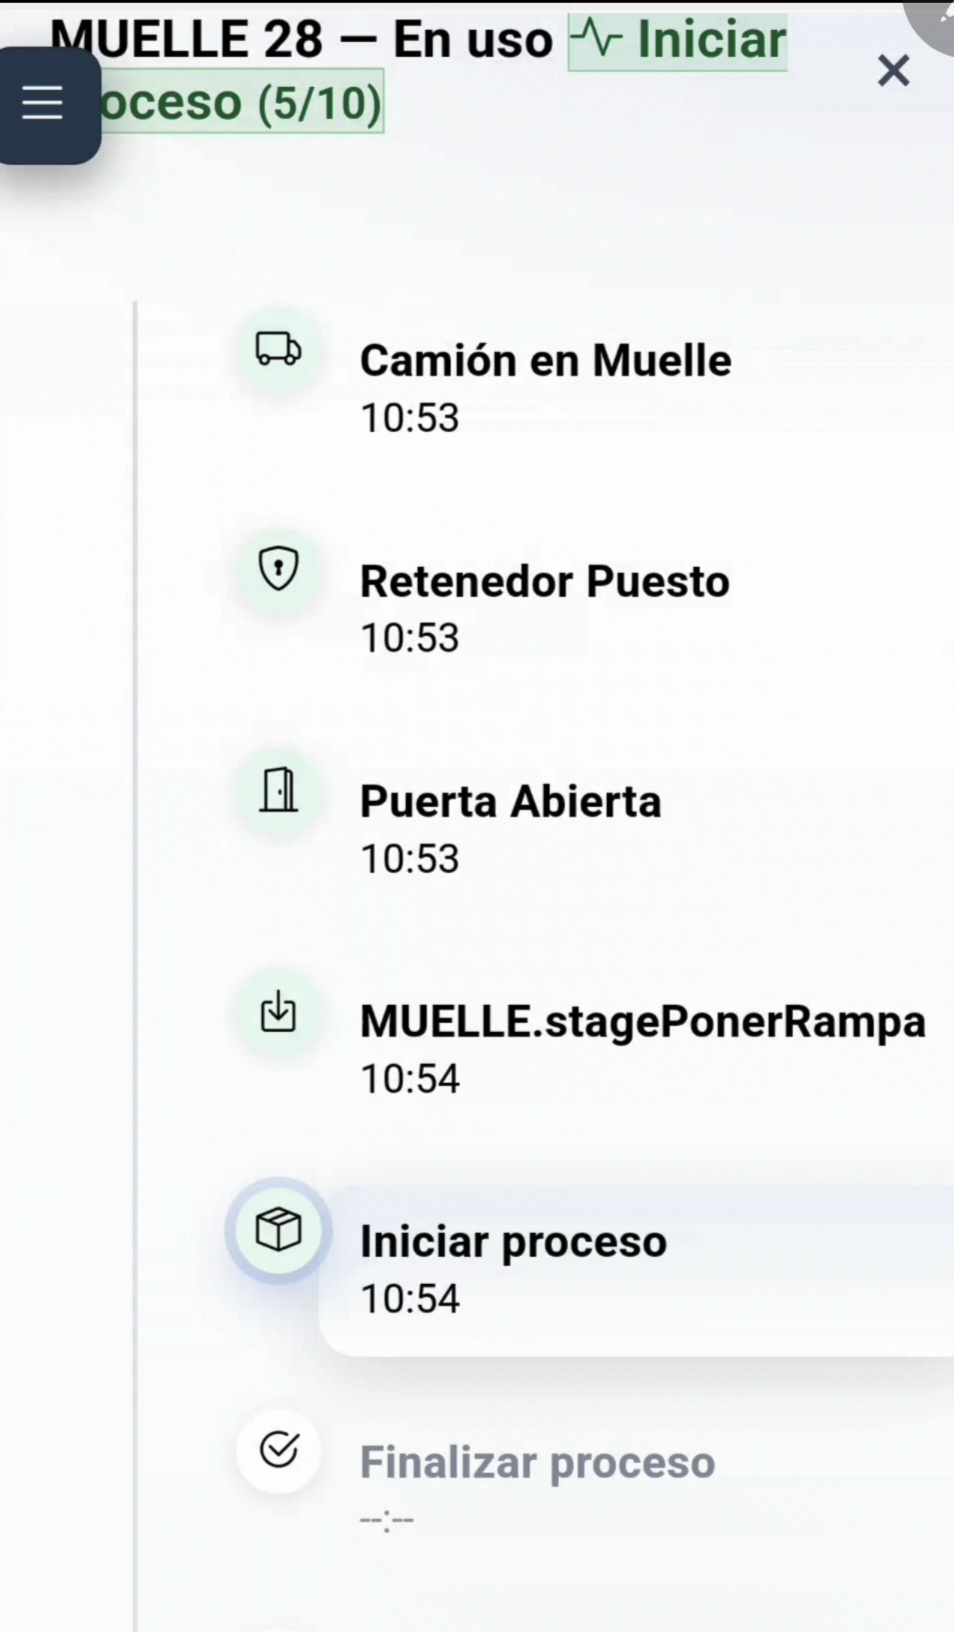
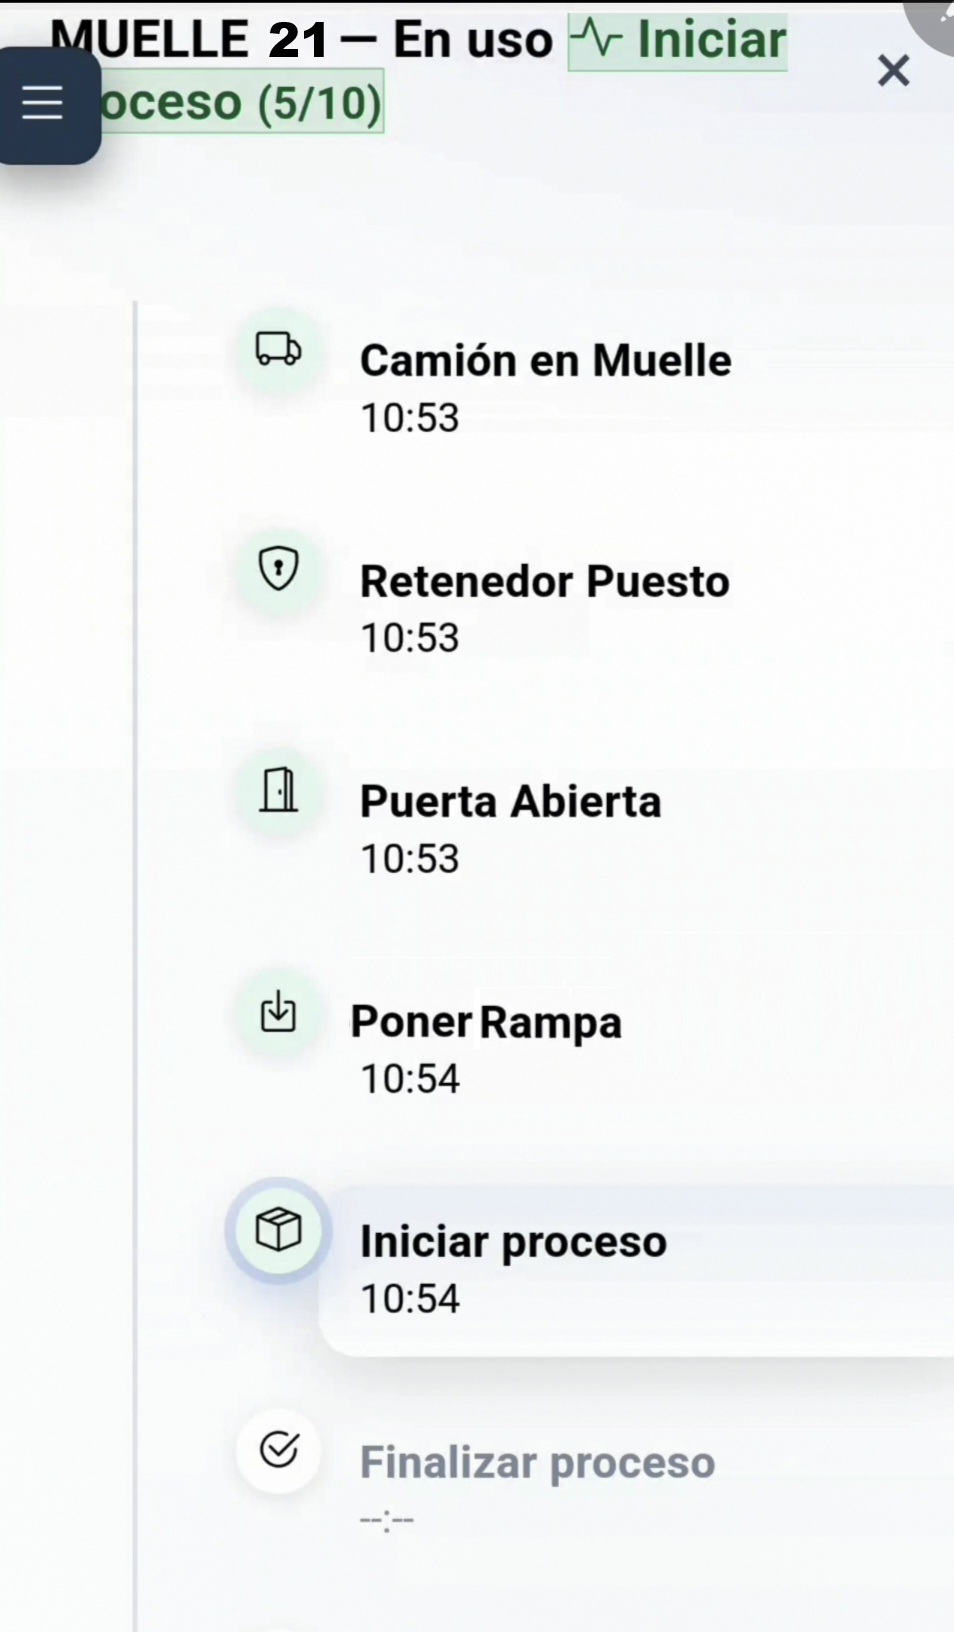
Refine project labels and mobile KPI interactions

Changed region(s): [[0.3648, 0.5938, 0.9727, 0.6562], [0.2736, 0.0, 0.3344, 0.0625]]

diff --git a/assets/css/main.css b/assets/css/main.css
@@ -980,20 +980,24 @@ h3 { margin: 0 0 0.95rem; font-size: clamp(1.45rem, 3vw, 2rem); }
 .kpi-hotspot-image img {
     position: absolute;
     inset: 0;
+    z-index: 1;
     width: 100%;
     height: 100%;
     display: block;
     max-height: none;
     object-fit: cover;
+    pointer-events: none;
 }
 
 .kpi-zone {
     position: absolute;
+    z-index: 2;
     left: 0;
     right: 0;
     border: 0;
     background: transparent;
     cursor: pointer;
+    touch-action: manipulation;
 }
 
 .kpi-zone::after {

diff --git a/data/profile.php b/data/profile.php
@@ -90,12 +90,12 @@ return [
             'tags' => ['.NET', 'C#', 'Angular', 'SQL Server', 'APIs'],
             'projects' => [
                 [
-                    'es' => 'Sistema de registro de tiempos operativos en muelles con eventos de camión, puerta y calzo en tiempo real.',
+                    'es' => 'Sistema de registro de tiempos operativos en muelles con eventos de camión, puerta y retenedor en tiempo real.',
                     'en' => 'Built a dock-time tracking system with real-time truck, door, and wheel chock events.',
                     'url' => 'proyecto-logistica/?lang=%lang%',
                     'url_label' => [
-                        'es' => 'Ver proyecto+',
-                        'en' => 'View project+',
+                        'es' => 'Proyecto Logística',
+                        'en' => 'Logistics Project',
                     ],
                 ],
                 [
@@ -222,6 +222,26 @@ return [
                 'en' => 'E-commerce platform with integrations, order workflows, and conversion-oriented UX.',
             ],
             'url' => 'https://sticnow.com',
+        ],
+        [
+            'name' => 'Proyecto Logístico MEIBIT',
+            'type' => ['es' => 'Proyecto para MEIBIT', 'en' => 'Project for MEIBIT'],
+            'logo' => 'MB',
+            'description' => [
+                'es' => 'Solución de control de tiempos en muelles con timeline operativo, zona KPI interactiva y trazabilidad de sesiones.',
+                'en' => 'Dock-time control solution with operational timeline, interactive KPI area, and session traceability.',
+            ],
+            'url' => '/proyecto-logistica/index.php?lang=%lang%',
+        ],
+        [
+            'name' => 'Content Generator Pro',
+            'type' => ['es' => 'Proyecto para DobleSEO', 'en' => 'Project for DobleSEO'],
+            'logo' => 'DS',
+            'description' => [
+                'es' => 'Plugin premium para WordPress orientado a automatización de contenido con IA e integración en flujos editoriales SEO.',
+                'en' => 'Premium WordPress plugin focused on AI content automation and SEO editorial workflow integration.',
+            ],
+            'url' => 'https://contentgeneratorpro.com/',
         ],
     ],
     'services' => [

diff --git a/components/projects.php b/components/projects.php
@@ -4,12 +4,13 @@
         <h3><?= htmlspecialchars($t['projects_title']) ?></h3>
         <div class="cards three">
             <?php foreach ($profile['projects'] as $project): ?>
+                <?php $projectUrl = str_replace('%lang%', $lang, $project['url']); ?>
                 <article class="card project-card">
                     <div class="project-logo" aria-hidden="true"><?= htmlspecialchars($project['logo'] ?? 'PR') ?></div>
                     <p class="project-type"><?= htmlspecialchars($project['type'][$lang] ?? $project['type']['es']) ?></p>
                     <h4><?= htmlspecialchars($project['name']) ?></h4>
                     <p><?= htmlspecialchars($project['description'][$lang] ?? $project['description']['es']) ?></p>
-                    <a href="<?= htmlspecialchars($project['url']) ?>" target="_blank" rel="noopener noreferrer"><?= htmlspecialchars($t['projects_visit']) ?></a>
+                    <a href="<?= htmlspecialchars($projectUrl) ?>" target="_blank" rel="noopener noreferrer"><?= htmlspecialchars($t['projects_visit']) ?></a>
                 </article>
             <?php endforeach; ?>
         </div>

diff --git a/data/translations.php b/data/translations.php
@@ -20,7 +20,7 @@ return [
         'experience_projects' => 'Proyectos clave',
         'experience_toggle' => 'Ver detalles',
         'services_title' => 'Servicios',
-        'projects_title' => 'Proyectos propios',
+        'projects_title' => 'Proyectos',
         'hobby_title' => 'Hobbies',
         'projects_visit' => 'Ver proyecto',
         'contact_title' => 'Construyamos algo útil',